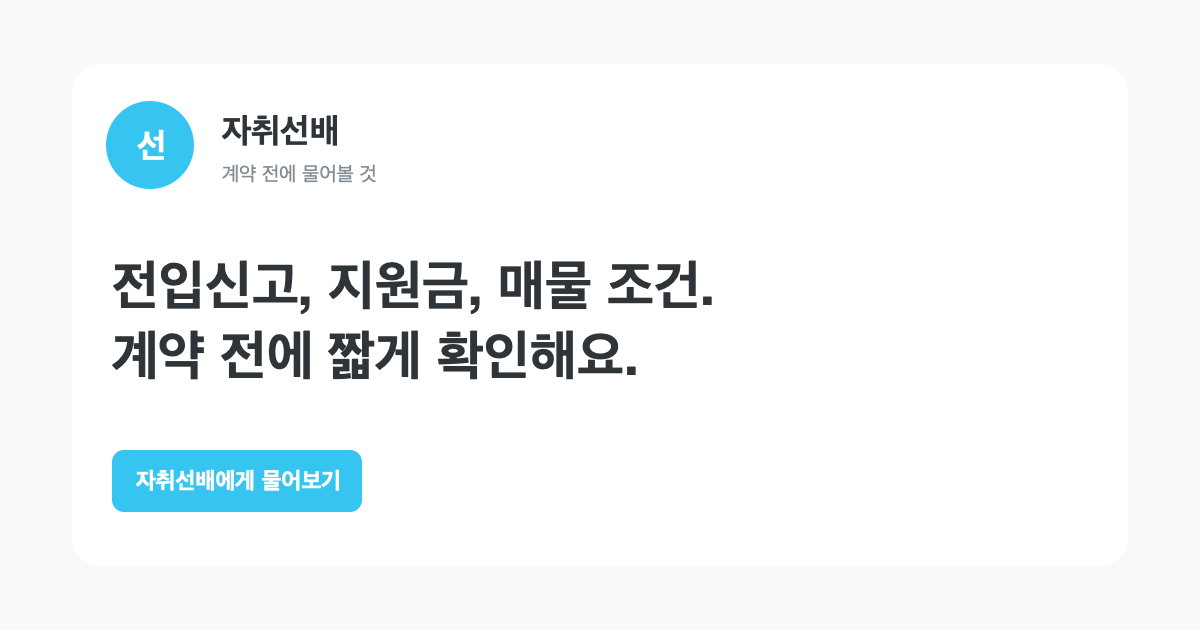
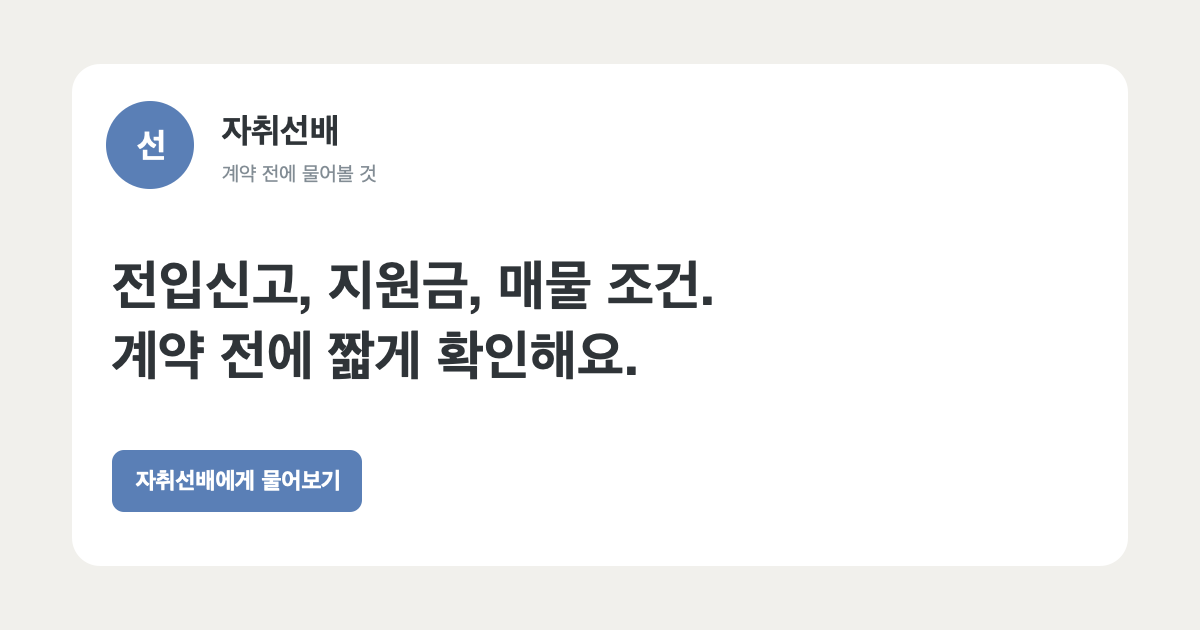
Apply Cloud Dancer palette and rebuild survey results

Changed region(s): [[0.0925, 0.6937, 0.3083, 0.8143], [0.0617, 0.1508, 0.185, 0.3016]]

diff --git a/src/styles.css b/src/styles.css
@@ -1,14 +1,19 @@
 @import url('https://fonts.googleapis.com/css2?family=DM+Mono:wght@400;500&family=Noto+Sans+KR:wght@400;500;600;700;800;900&display=swap');
 
 :root {
-  --bg: #ffffff;
-  --surface: #f7f9fa;
-  --surface-2: #eaedef;
-  --line: #eaedef;
-  --text: #2f3438;
-  --muted: #828c94;
-  --blue: #35c5f0;
-  --blue-soft: #7dd7f2;
+  --bg: #f1f0ec;
+  --surface: #ffffff;
+  --surface-2: #e7e5df;
+  --line: #d9d7d1;
+  --text: #34363a;
+  --muted: #7c817e;
+  --blue: #5a7fb6;
+  --blue-soft: #b6cbe2;
+  --alaskan-blue: #7fa8cb;
+  --cosmic-sky: #a9a9c1;
+  --aqua-gray: #a7b3aa;
+  --rinsing-rivulet: #7bc0c0;
+  --dusky-citron: #e3cf89;
   font-family: 'Pretendard', -apple-system, BlinkMacSystemFont, 'Apple SD Gothic Neo', 'Noto Sans KR', sans-serif;
   color: var(--text);
   background: var(--bg);
@@ -17,22 +22,22 @@
 }
 
 * { box-sizing: border-box; }
-html { background: #ffffff; }
-body { margin: 0; min-width: 320px; background: #ffffff; }
+html { background: var(--bg); }
+body { margin: 0; min-width: 320px; background: var(--bg); }
 button, input { font: inherit; }
 button { cursor: pointer; -webkit-tap-highlight-color: transparent; }
 
 .dm-journey { height: 100svh; background: var(--bg); overflow: hidden; }
-.dm-screen { position: relative; height: 100svh; overflow: hidden; background: #ffffff; }
+.dm-screen { position: relative; height: 100svh; overflow: hidden; background: var(--bg); }
 
-.dm-header { position: relative; z-index: 10; height: 80px; padding: 0 clamp(18px, 4vw, 56px); display: flex; align-items: center; gap: 12px; border-bottom: 1px solid var(--line); background: #ffffff; }
+.dm-header { position: relative; z-index: 10; height: 80px; padding: 0 clamp(18px, 4vw, 56px); display: flex; align-items: center; gap: 12px; border-bottom: 1px solid var(--line); background: rgba(241,240,236,.98); }
 .profile-avatar { width: 39px; height: 39px; flex: 0 0 39px; display: grid; place-items: center; border-radius: 50%; color: white; background: var(--blue); font-size: 14px; font-weight: 900; }
 .profile-copy { display: flex; flex-direction: column; gap: 2px; }
 .profile-copy strong { display: flex; align-items: center; gap: 6px; color: var(--text); font-size: 14px; letter-spacing: -.03em; }
 .profile-copy strong i { width: 5px; height: 5px; border-radius: 50%; background: #52dc83; box-shadow: 0 0 0 4px rgba(82,220,131,.1); }
 .profile-copy span { color: var(--muted); font-size: 9px; }
 .header-site { margin-left: auto; padding: 8px 11px; display: flex; align-items: center; gap: 6px; color: white; background: var(--blue); border: 0; border-radius: 6px; font-size: 10px; font-weight: 700; text-decoration: none; transition: background .2s; }
-.header-site:hover { color: white; background: #09addb; }
+.header-site:hover { color: white; background: #476da4; }
 
 .dm-body { position: relative; z-index: 2; height: calc(100svh - 152px); display: block; overflow-y: auto; overscroll-behavior: contain; scrollbar-width: none; transition: height .3s ease; }
 .dm-body::-webkit-scrollbar { display: none; }
@@ -51,16 +56,15 @@ button { cursor: pointer; -webkit-tap-highlight-color: transparent; }
 .typing i:nth-child(3) { animation-delay: .3s; }
 
 .reply-choices { width: min(520px, 100%); margin-top: 7px; padding: 15px; border: 1px solid var(--line); border-radius: 10px; background: var(--surface); }
-.reply-choices-heading { display: flex; flex-direction: column; gap: 4px; padding: 2px 3px 12px; }
-.reply-choices-heading span { color: var(--blue); font: 8px 'DM Mono', monospace; letter-spacing: .1em; text-transform: uppercase; }
+.reply-choices-heading { display: flex; flex-direction: column; padding: 2px 3px 12px; }
 .reply-choices-heading strong { color: #17181c; font-size: 13px; letter-spacing: -.035em; }
 .reply-choice-list { display: flex; flex-direction: column; gap: 7px; }
 .reply-choice-list button { width: 100%; min-height: 44px; padding: 10px 12px; display: flex; align-items: center; justify-content: space-between; color: var(--text); background: #fff; border: 1px solid #dadde0; border-radius: 8px; text-align: left; transition: border-color .2s, background .2s; }
-.reply-choice-list button:hover:not(:disabled) { border-color: var(--blue); background: #f0fbff; }
+.reply-choice-list button:hover:not(:disabled) { border-color: var(--blue); background: #eef2f7; }
 .reply-choice-list button.is-selected { color: white; background: var(--blue); border-color: var(--blue); }
 .reply-choice-list button:disabled:not(.is-selected) { opacity: .35; }
 .reply-choice-list button span { font-size: 11px; font-weight: 700; letter-spacing: -.025em; }
-.reply-choice-list button i { width: 23px; height: 23px; display: grid; place-items: center; color: var(--blue); border-radius: 50%; background: #edf0ff; }
+.reply-choice-list button i { width: 23px; height: 23px; display: grid; place-items: center; color: var(--blue); border-radius: 50%; background: #e7edf5; }
 .reply-choice-list button.is-selected i { color: var(--blue); background: #fff; }
 
 .previous-stack { width: 100%; margin-bottom: 14px; padding-bottom: 18px; display: flex; flex-direction: column; gap: 6px; border-bottom: 1px solid var(--line); }
@@ -105,17 +109,17 @@ button { cursor: pointer; -webkit-tap-highlight-color: transparent; }
 .result-tags span { padding: 7px 10px; color: var(--blue-soft); background: rgba(69,104,255,.13); border: 1px solid rgba(113,139,255,.22); border-radius: 999px; font-size: 9px; }
 .read-mark { align-self: flex-end; color: #52555d; font-size: 8px; }
 .link-preview { width: min(500px, 92%); margin-top: 4px; padding: 0; display: flex; flex-direction: column; align-items: stretch; position: relative; color: var(--text); background: #fff; border: 1px solid #dadde0; border-radius: 10px; text-align: left; text-decoration: none; overflow: hidden; transition: border-color .2s, background .2s; }
-.link-preview:hover { border-color: var(--blue); background: #f7fdff; }
+.link-preview:hover { border-color: var(--blue); background: #f6f5f1; }
 .link-url { padding: 9px 12px; display: flex; align-items: center; gap: 6px; color: #656e75; border-bottom: 1px solid var(--line); font-size: 9px; }
 .link-meta { min-height: 92px; padding: 12px; display: grid; grid-template-columns: 66px 1fr 20px; align-items: center; gap: 12px; }
-.link-cover { width: 66px; height: 66px; display: grid; place-items: center; color: white; background: var(--blue); border-radius: 8px; }
+.link-cover { width: 66px; height: 66px; display: grid; place-items: center; color: white; background: var(--alaskan-blue); border-radius: 8px; }
 .link-copy { min-width: 0; display: flex; flex-direction: column; gap: 3px; }
 .link-copy small { color: var(--muted); font-size: 8px; }
 .link-copy strong { color: var(--text); font-size: 13px; letter-spacing: -.035em; }
 .link-copy em { color: #656e75; font-size: 9px; font-style: normal; line-height: 1.45; }
 .link-meta > svg { color: var(--muted); }
 
-.quick-check { position: absolute; z-index: 50; inset: 0; display: flex; flex-direction: column; color: var(--text); background: #ffffff; animation: introPageIn .3s ease-out both; }
+.quick-check { position: absolute; z-index: 50; inset: 0; display: flex; flex-direction: column; color: var(--text); background: var(--bg); animation: introPageIn .3s ease-out both; }
 .quick-topbar { height: 64px; padding: 0 clamp(16px,4vw,40px); display: grid; grid-template-columns: 1fr auto 1fr; align-items: center; border-bottom: 1px solid var(--line); }
 .quick-topbar > button:first-child { justify-self: start; display: flex; align-items: center; gap: 4px; color: var(--text); background: transparent; border: 0; font-size: 11px; font-weight: 700; }
 .quick-topbar > span { color: var(--text); font-size: 14px; font-weight: 800; letter-spacing: -.03em; }
@@ -130,16 +134,18 @@ button { cursor: pointer; -webkit-tap-highlight-color: transparent; }
 .quick-help { max-width: 540px; margin: 14px 0 28px; color: var(--muted); font-size: 13px; line-height: 1.65; letter-spacing: -.02em; }
 .quick-options { width: min(620px, 100%); display: flex; flex-direction: column; gap: 8px; }
 .quick-options button { min-height: 54px; padding: 0 16px; display: flex; align-items: center; justify-content: space-between; color: var(--text); background: #fff; border: 1px solid #dadde0; border-radius: 8px; text-align: left; transition: border-color .2s, background .2s, color .2s; }
-.quick-options button:hover { color: #009fce; background: #f0fbff; border-color: var(--blue); }
+.quick-options button:hover { color: var(--blue); background: #eef2f7; border-color: var(--blue); }
 .quick-options button span { font-size: 14px; font-weight: 700; letter-spacing: -.025em; }
 .quick-result { max-width: 860px; }
-.say-this { max-width: 700px; margin: 30px 0 40px; padding: 22px 24px; background: #f0fbff; border-radius: 10px; }
-.say-this > span { display: block; margin-bottom: 10px; color: #009fce; font-size: 11px; font-weight: 800; }
+.result-category { margin: 0 0 10px; color: var(--blue); font-size: 11px; font-weight: 800; }
+.say-this { max-width: 700px; margin: 30px 0 40px; padding: 22px 24px; background: var(--blue-soft); border-radius: 10px; }
+.say-this > span { display: block; margin-bottom: 10px; color: #3f669a; font-size: 11px; font-weight: 800; }
 .say-this blockquote { margin: 0; max-width: 650px; color: var(--text); font-size: clamp(18px, 2.2vw, 23px); font-weight: 700; line-height: 1.5; letter-spacing: -.045em; word-break: keep-all; }
 .say-this p { margin: 14px 0 0; color: #656e75; font-size: 11px; line-height: 1.6; }
 .result-grid { display: flex; flex-direction: column; border-top: 1px solid var(--line); }
 .result-grid:empty { display: none; }
 .result-grid article { min-height: 96px; padding: 20px 2px; display: grid; grid-template-columns: 1fr; align-items: center; gap: 16px; border-bottom: 1px solid var(--line); }
+.result-grid small { display: block; margin-bottom: 5px; color: var(--blue); font-size: 9px; font-weight: 800; }
 .result-grid strong { display: block; font-size: 17px; letter-spacing: -.04em; }
 .result-grid p { margin: 7px 0 0; color: #656e75; font-size: 12px; line-height: 1.55; letter-spacing: -.02em; }
 .evidence-preview { min-height: 220px; margin: 32px 0 0; padding: 16px; position: relative; display: grid; grid-template-columns: 1.45fr 1fr 1fr; grid-template-rows: auto 1fr auto; gap: 8px; background: var(--surface); border-radius: 10px; overflow: hidden; }
@@ -161,14 +167,30 @@ button { cursor: pointer; -webkit-tap-highlight-color: transparent; }
 .evidence-registry::after { content: '확인'; position: absolute; right: 10px; bottom: 9px; width: 27px; height: 27px; display: grid; place-items: center; color: #5469d1; border: 1px solid #aeb8eb; border-radius: 50%; font-size: 7px; }
 .evidence-preview figcaption { grid-column: 1 / -1; color: var(--muted); font-size: 9px; line-height: 1.5; }
 .more-results { margin: 20px 0 0; min-height: 44px; padding: 0 16px; display: inline-flex; align-items: center; gap: 6px; color: white; background: var(--blue); border: 0; border-radius: 6px; font-size: 12px; font-weight: 800; }
-.more-results:hover { background: #09addb; }
+.more-results:hover { background: #476da4; }
 .more-results svg { transform: rotate(-90deg); transition: transform .2s; }
 .more-results svg.is-open { transform: rotate(90deg); }
+.prototype-info { margin-top: 56px; padding-top: 34px; border-top: 1px solid var(--line); }
+.prototype-info h3 { margin: 0; color: var(--text); font-size: 23px; letter-spacing: -.05em; }
+.prototype-info > p { max-width: 650px; margin: 12px 0 26px; color: #666b68; font-size: 13px; line-height: 1.7; }
+.prototype-info ul { margin: 0; padding: 0; display: grid; grid-template-columns: repeat(2, minmax(0, 1fr)); gap: 9px; list-style: none; }
+.prototype-info li { min-height: 92px; padding: 16px; display: flex; align-items: flex-start; gap: 11px; background: #fff; border: 1px solid var(--line); border-radius: 8px; }
+.prototype-info li > svg { flex: 0 0 25px; width: 25px; height: 25px; padding: 5px; color: white; background: var(--blue); border-radius: 7px; }
+.prototype-info li:nth-child(2) > svg { background: var(--alaskan-blue); }
+.prototype-info li:nth-child(3) > svg { background: var(--rinsing-rivulet); }
+.prototype-info li:nth-child(4) > svg { background: var(--cosmic-sky); }
+.prototype-info li span { display: flex; flex-direction: column; gap: 5px; }
+.prototype-info li strong { font-size: 13px; line-height: 1.4; letter-spacing: -.035em; }
+.prototype-info li small { color: var(--muted); font-size: 9px; line-height: 1.5; }
+.prototype-info .prototype-note { margin: 24px 0; padding-left: 15px; border-left: 3px solid var(--aqua-gray); color: #666b68; }
+.prototype-next { padding: 20px 22px; background: var(--dusky-citron); border-radius: 8px; }
+.prototype-next strong { font-size: 15px; letter-spacing: -.035em; }
+.prototype-next p { margin: 7px 0 0; color: #5e594b; font-size: 11px; line-height: 1.6; }
 .launch-email { margin-top: 42px; padding-top: 28px; border-top: 1px solid var(--line); }
 .launch-email label { display: block; margin-bottom: 12px; color: var(--text); font-size: 17px; font-weight: 800; letter-spacing: -.035em; }
 .launch-email > div { max-width: 520px; height: 48px; display: flex; gap: 8px; }
 .launch-email input { flex: 1; min-width: 0; padding: 0 14px; color: var(--text); background: #fff; border: 1px solid #dadde0; border-radius: 6px; outline: none; font-size: 16px; }
-.launch-email input:focus { border-color: var(--blue); box-shadow: 0 0 0 3px rgba(53,197,240,.14); }
+.launch-email input:focus { border-color: var(--blue); box-shadow: 0 0 0 3px rgba(90,127,182,.14); }
 .launch-email button { flex: 0 0 auto; padding: 0 18px; color: white; background: var(--blue); border: 0; border-radius: 6px; font-size: 12px; font-weight: 800; }
 .launch-email small { display: block; margin-top: 9px; color: var(--muted); font-size: 9px; }
 .email-reply, .complete-reply { width: 100%; margin-top: auto; margin-bottom: 12px; padding: 18px; border: 1px solid var(--line); border-radius: 20px; background: rgba(23,24,28,.9); }
@@ -184,7 +206,7 @@ button { cursor: pointer; -webkit-tap-highlight-color: transparent; }
 .complete-reply strong { font-size: 12px; }
 .complete-reply span { color: #888b93; font-size: 9px; }
 
-.chat-footer { position: absolute; z-index: 20; left: 0; right: 0; bottom: 0; height: 72px; padding: 8px 14px 12px; display: flex; flex-direction: column; align-items: center; gap: 5px; background: rgba(255,255,255,.98); border-top: 1px solid var(--line); transition: height .3s ease, background .3s ease; }
+.chat-footer { position: absolute; z-index: 20; left: 0; right: 0; bottom: 0; height: 72px; padding: 8px 14px 12px; display: flex; flex-direction: column; align-items: center; gap: 5px; background: rgba(241,240,236,.98); border-top: 1px solid var(--line); transition: height .3s ease, background .3s ease; }
 .chat-composer { width: min(720px, 100%); min-height: 44px; padding: 4px 5px; display: flex; align-items: center; gap: 7px; border: 1px solid #dadde0; border-radius: 999px; background: #ffffff; }
 .camera-button { width: 34px; height: 34px; flex: 0 0 34px; display: grid; place-items: center; color: white; background: var(--blue); border: 0; border-radius: 50%; }
 .chat-composer input { flex: 1; min-width: 0; color: var(--text); background: transparent; border: 0; outline: none; font-size: 16px; transform: scale(.8); transform-origin: left center; -webkit-text-size-adjust: 100%; }
@@ -300,6 +322,11 @@ button { cursor: pointer; -webkit-tap-highlight-color: transparent; }
   .evidence-paper::before { top: 28px; left: 8px; }
   .evidence-paper small, .evidence-paper i, .evidence-photo span { font-size: 6px; }
   .evidence-preview figcaption { font-size: 7px; }
+  .prototype-info { margin-top: 44px; padding-top: 28px; }
+  .prototype-info h3 { font-size: 20px; }
+  .prototype-info ul { grid-template-columns: 1fr; }
+  .prototype-info li { min-height: 82px; }
+  .prototype-next { padding: 18px; }
   .launch-email { margin-top: 34px; padding-top: 24px; }
   .launch-email label { font-size: 15px; }
   .launch-email > div { height: 46px; gap: 6px; }

diff --git a/src/App.jsx b/src/App.jsx
@@ -32,11 +32,10 @@ function Typing() {
   return <div className="typing" aria-label="입력 중"><i /><i /><i /></div>
 }
 
-function ChoiceGroup({ eyebrow, title, choices, selectedId, onSelect }) {
+function ChoiceGroup({ title, choices, selectedId, onSelect }) {
   return (
     <div className="reply-choices">
       <div className="reply-choices-heading">
-        <span>{eyebrow}</span>
         <strong>{title}</strong>
       </div>
       <div className="reply-choice-list">
@@ -84,6 +83,7 @@ const quickQuestions = [
 const quickResults = [
   {
     key: 'movein',
+    label: '계약 전에 추가로 확인할 매물 조건',
     title: '전입신고, 말로만 듣고 넘기지 마.',
     body: '가능하다는 답을 받으면 계약서 특약에도 같은 내용이 들어가는지 확인해.',
     ask: '“전입신고와 확정일자가 가능한 집인지 계약서 특약에 적어주실 수 있을까요?”',
@@ -91,6 +91,7 @@ const quickResults = [
   },
   {
     key: 'support',
+    label: '확인해볼 주거지원',
     title: '지원금은 집 계약 전에 한 번 찾아봐.',
     body: '지역과 신청 시기에 따라 이사비나 중개보수 지원 조건이 달라질 수 있어.',
     ask: '“이 집으로 계약하면 신청할 수 있는 청년 주거지원이 있을까요?”',
@@ -98,6 +99,7 @@ const quickResults = [
   },
   {
     key: 'condition',
+    label: '중개인이나 집주인에게 물어볼 질문',
     title: '수리 얘기는 집 볼 때 바로 꺼내.',
     body: '누수나 곰팡이처럼 눈에 보이는 하자는 입주 전에 누가 수리할지 정해두는 게 좋아.',
     ask: '“지금 보이는 하자는 입주 전에 어디까지 수리해주시나요?”',
@@ -105,6 +107,7 @@ const quickResults = [
   },
   {
     key: 'record',
+    label: '계약과 입주 때 보관할 서류와 기록',
     title: '서류와 사진은 한 폴더에 모아둬.',
     body: '계약서, 등기부, 집 상태 사진을 흩어두면 막상 필요할 때 찾기 어려워.',
     ask: '“계약 전에 최신 등기부와 관리비 내역도 볼 수 있을까요?”',
@@ -121,6 +124,23 @@ function EvidencePreview() {
       <div className="evidence-paper evidence-registry"><small>등기부 예시</small><strong>근저당 확인</strong><i>갑구 · 을구</i></div>
       <figcaption>개인정보를 가린 예시예요. 계약 전에 이 세 가지를 같이 남겨둬.</figcaption>
     </figure>
+  )
+}
+
+function PrototypeInfo() {
+  return (
+    <section className="prototype-info">
+      <h3>자취선배가 같이 확인하는 것</h3>
+      <p>나이·지역·주거지원 경험과 보고 있는 집의 지역·보증금·월세·전입신고 가능 여부·주택 유형을 함께 살펴봐요.</p>
+      <ul>
+        <li><Check size={16} /><span><strong>확인해볼 주거지원</strong><small>지역과 신청 시기에 맞는 지원부터 확인해요.</small></span></li>
+        <li><Check size={16} /><span><strong>계약 전에 추가로 확인할 매물 조건</strong><small>전입신고와 계약서 특약을 놓치지 않게 정리해요.</small></span></li>
+        <li><Check size={16} /><span><strong>중개인이나 집주인에게 물어볼 질문</strong><small>그 자리에서 그대로 읽고 물어볼 수 있게 준비해요.</small></span></li>
+        <li><Check size={16} /><span><strong>계약과 입주 때 보관할 서류와 기록</strong><small>계약서·등기부·사진과 대화를 한곳에 남겨요.</small></span></li>
+      </ul>
+      <p className="prototype-note">이 안내를 보기 전후로 새롭게 알게 된 지원과 확인 조건, 질문과 기록이 실제로 달라지는지 확인하고 있어요.</p>
+      <div className="prototype-next"><strong>집을 보러 가는 날에도 이어져요</strong><p>다음에는 현장에서 확인한 내용과 사진·메모를 한 번에 남기는 흐름까지 준비할 예정이에요.</p></div>
+    </section>
   )
 }
 
@@ -180,6 +200,7 @@ function QuickCheck({ onClose }) {
           </>
         ) : (
           <div className="quick-result">
+            <p className="result-category">{priority.label}</p>
             <h2>{priority.title}</h2>
             <p className="quick-scope">{priority.body}</p>
             <div className="say-this">
@@ -188,10 +209,11 @@ function QuickCheck({ onClose }) {
               <p>{priority.keep}</p>
             </div>
             <div className="result-grid">
-              {showMore && otherResults.map((item) => <article key={item.key}><div><strong>{item.title}</strong><p>{item.body}</p></div></article>)}
+              {showMore && otherResults.map((item) => <article key={item.key}><div><small>{item.label}</small><strong>{item.title}</strong><p>{item.body}</p></div></article>)}
             </div>
             <EvidencePreview />
             <button type="button" className="more-results" onClick={() => setShowMore((value) => !value)}>{showMore ? '여기까지만 볼게' : '이것도 같이 확인해봐'} <ChevronLeft size={14} className={showMore ? 'is-open' : ''} /></button>
+            <PrototypeInfo />
             <form className="launch-email" onSubmit={submitEmail}>
               <label htmlFor="launch-email">서비스가 나오면 알려드릴게요</label>
               <div><input id="launch-email" type="email" value={email} onChange={(event) => { setEmail(event.target.value); setEmailSubmitted(false) }} placeholder="이메일 주소" required /><button type="submit">메일로 받기</button></div>
@@ -258,7 +280,7 @@ function App() {
                 <p className="scene-date">오늘 오전 9:41</p>
                 <Bubble>8월에 이사해?</Bubble>
                 <Bubble>계약 전에 두 가지만 같이 확인해도 될까?</Bubble>
-                {!firstChoice && <ChoiceGroup eyebrow="첫 번째 질문" title="지금 이사 상황은 어때?" choices={firstChoices} onSelect={setFirstChoice} />}
+                {!firstChoice && <ChoiceGroup title="지금 이사 상황은 어때?" choices={firstChoices} onSelect={setFirstChoice} />}
               </div>
             )}
 
@@ -267,7 +289,7 @@ function App() {
                 <Bubble mine>{first.label}</Bubble>
                 <Bubble wide>{first.info}</Bubble>
                 <Bubble>그럼 이번엔 이 중에서 골라봐.</Bubble>
-                {!secondChoice && <ChoiceGroup eyebrow="두 번째 질문" title="지금 가장 걱정되는 건?" choices={secondChoices} onSelect={setSecondChoice} />}
+                {!secondChoice && <ChoiceGroup title="지금 가장 걱정되는 건?" choices={secondChoices} onSelect={setSecondChoice} />}
               </div>
             )}
 
@@ -276,7 +298,7 @@ function App() {
                 <Bubble mine>{second.label}</Bubble>
                 <Bubble wide>{second.info}</Bubble>
                 <Bubble>이 내용, 알고 있었어?</Bubble>
-                {!known && <ChoiceGroup eyebrow="마지막 확인" title="이사 전에 알고 있었어?" choices={[{ id: 'know', label: '알았어', info: '' }, { id: 'didnt-know', label: '몰랐어', info: '' }]} onSelect={setKnown} />}
+                {!known && <ChoiceGroup title="이사 전에 알고 있었어?" choices={[{ id: 'know', label: '알았어', info: '' }, { id: 'didnt-know', label: '몰랐어', info: '' }]} onSelect={setKnown} />}
               </div>
             )}
 

diff --git a/index.html b/index.html
@@ -3,7 +3,7 @@
   <head>
     <meta charset="UTF-8" />
     <meta name="viewport" content="width=device-width, initial-scale=1.0" />
-    <meta name="theme-color" content="#ffffff" />
+    <meta name="theme-color" content="#f1f0ec" />
     <meta name="description" content="이사 전에 놓치기 쉬운 보증금, 지원금, 전입신고와 하자 체크리스트를 대화로 확인하세요." />
     <meta property="og:type" content="website" />
     <meta property="og:url" content="https://iftype.github.io/move-dm-landing/" />
